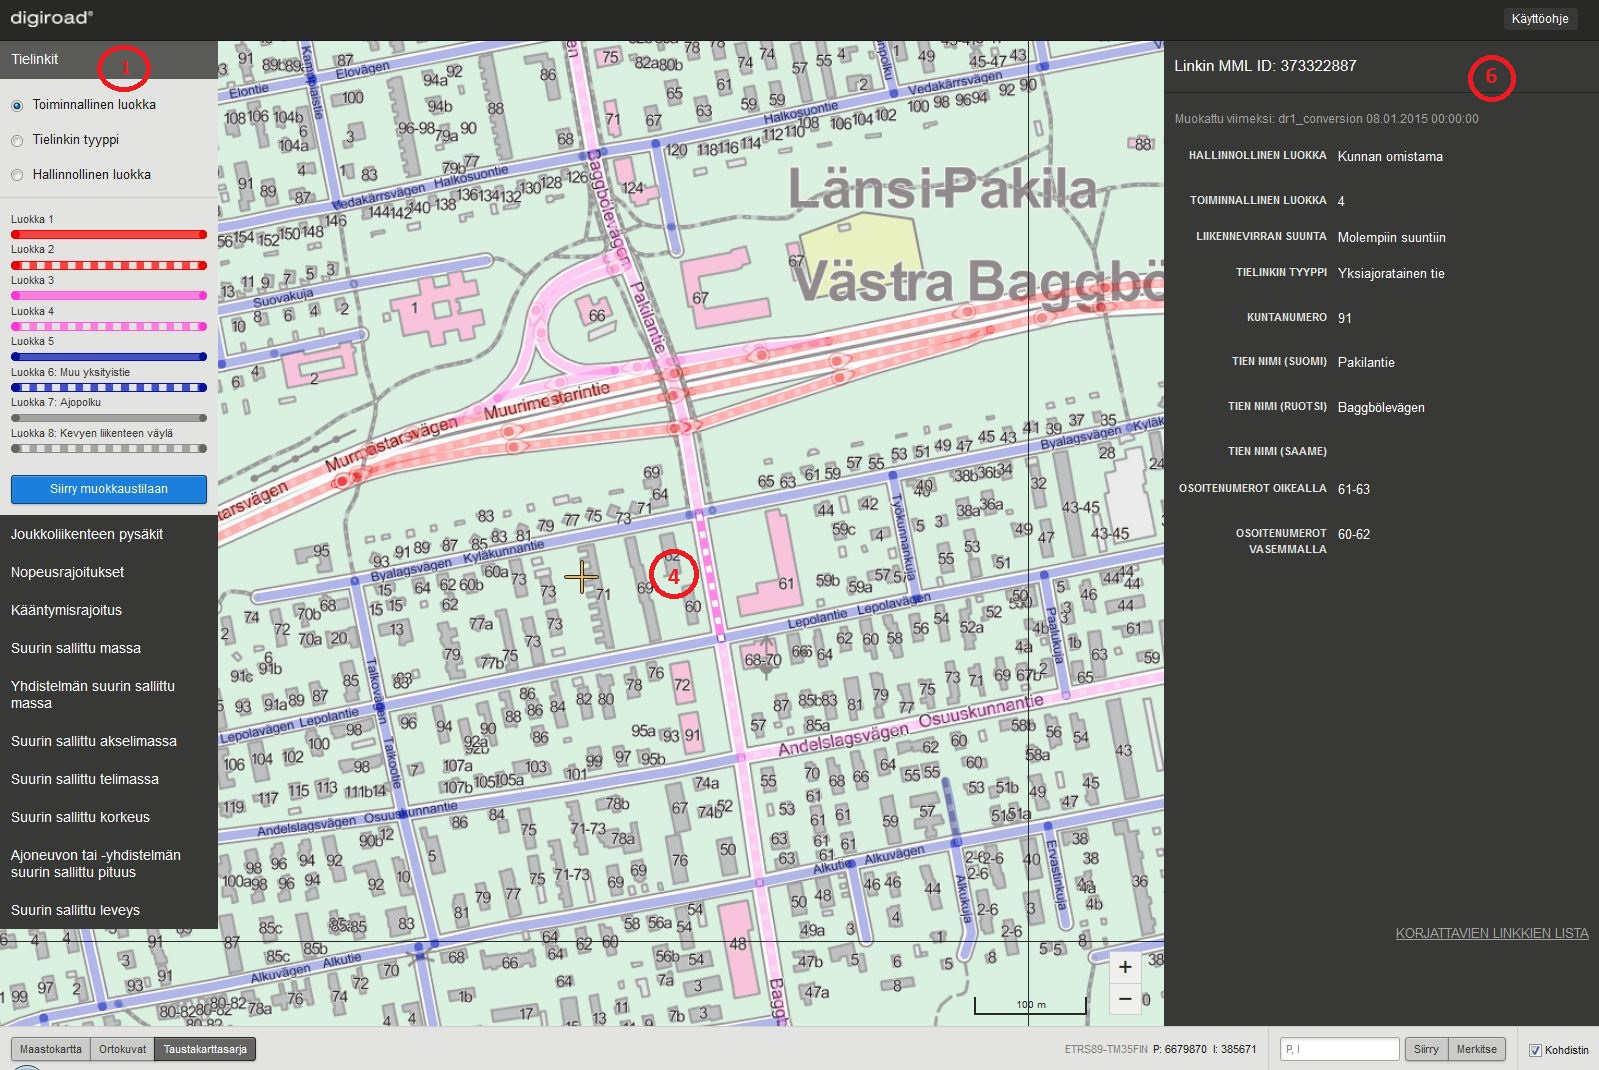
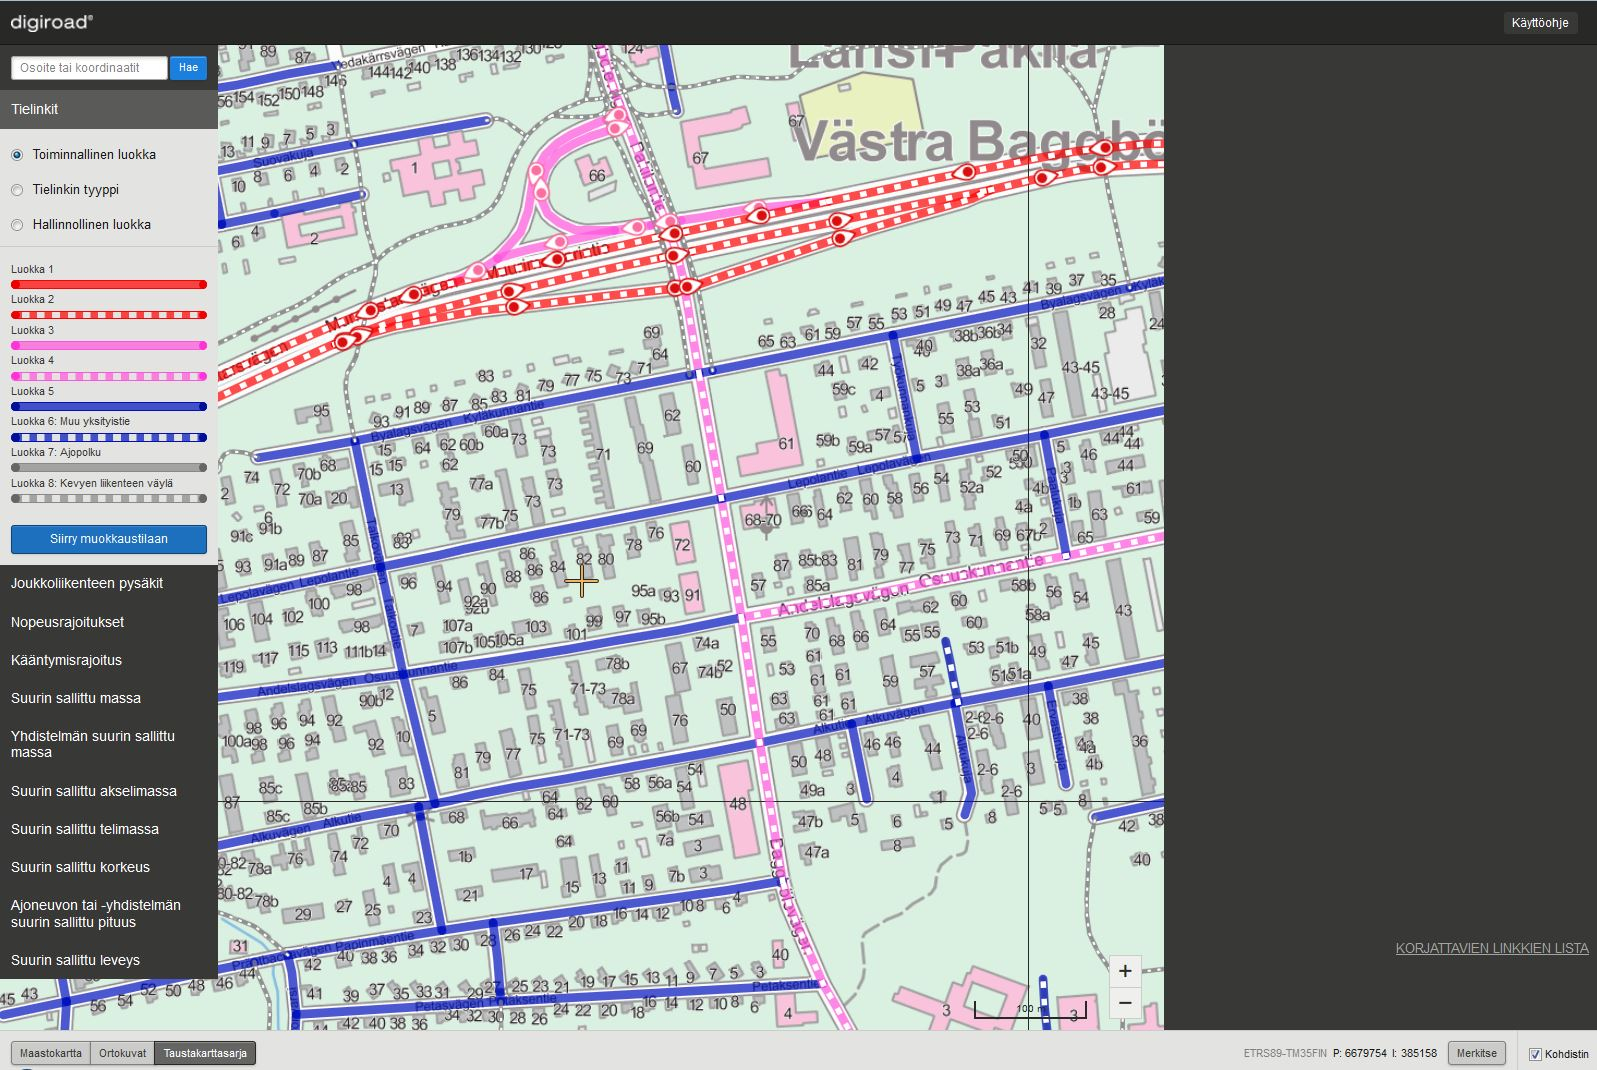
update manual

diff --git a/UI/manual/index.md b/UI/manual/index.md
@@ -118,7 +118,7 @@ _Karttan&auml;kym&auml;n muokkaus._
 3. Tielinkit
 ------------
 
-Tielinkki on tien, kadun, kevyen liikenteen v&auml;yl&auml;n tai lauttayhteyden keskilinjageometrian pienin yksikk&ouml;. Tielinkin ominaisuustiedot ovat aina voimassa koko tielinkin matkalla. Karttan&auml;kym&auml;&auml;n valitaan tielinkit valitsemalla tietolajit-paletista (1) Tielinkit.
+Tielinkki on tien, kadun, kevyen liikenteen v&auml;yl&auml;n tai lauttayhteyden keskilinjageometrian pienin yksikk&ouml;. Tielinkin ominaisuustiedot ovat aina voimassa koko tielinkin matkalla. Karttan&auml;kym&auml;&auml;n valitaan tielinkit valitsemalla tietolajit-paletista Tielinkit.
 
 ![Tielinkit](k38.JPG)
 
@@ -134,9 +134,21 @@ jossa numerosarja 373320541 on tielinkin MML-ID. Toiminto tarkentaa karttak&auml
 
 ##Tielinkin tietojen katselu##
 
-Yksitt&auml;isen tielinkin ominaisuustiedot tulevat n&auml;kyviin, kun tielinkin geometriaa kartalla klikataan (4). T&auml;ll&ouml;in tielinkin geometria korostuu kartalla ja sen ominaisuustiedot avautuvat ominaisuustieton&auml;kym&auml;&auml;n (6). Tielinkin ominaisuustietoja ovat tielinkin ID, Maanmittauslaitoksen ID (MML ID), hallinnollinen luokka, toiminnallinen luokka, liikennevirran suunta, tielinkin tyyppi, kuntanumero, tien nimi (suomi, ruotsi, saame) ja osoitenumerot vasemmalla ja oikealla.
+Yksitt&auml;isen tielinkin voi valita klikkaamalla kartalta sen geometriaa. Tielinkin ominaisuustiedot avautuvat ominaisuustieton&auml;kym&auml;&auml;n (1). Tielinkin ominaisuustietoja ovat Maanmittauslaitoksen ID (MML ID), hallinnollinen luokka, toiminnallinen luokka, liikennevirran suunta, tielinkin tyyppi, kuntanumero, tien nimi (suomi, ruotsi, saame) ja osoitenumerot vasemmalla ja oikealla.
 
-Tielinkeille voi valita visualisoinnin Tietolajit -paletista (1) tielinkkien alta. Visualisoinnin voi valita toiminnallisen luokan, tielinkin tyypin tai hallinnollisen luokan mukaan. Valinnan mukaan visualisoinnin selitteet n&auml;kyv&auml;t Tietolajit-paletissa. Lis&auml;ksi tielinkill&auml; on visualisoitu suuntanuoli, mik&auml;li tielinkin liikennevirran suunta on vain toiseen suuntaan.
+Kerran klikkaamalla tulee valituksi koko tielinkkiketju. Tielinkkiketjussa kaikilla tielinkeill&auml; on sama hallinnollinen luokka, toiminnallinen luokka, tielinkin tyyppi, liikennevirran suunta ja tiennumero (maantiet) tai tien nimi (katuverkko ja yksityistie). Jos k&auml;ytt&auml;j&auml; haluaa valita vain yhden linkin, sen voi tehd&auml; tuplaklikkaamalla linkki&auml;.
+
+Valitun tielinkkiketjun tai yksitt&auml;isen tielinkin geometria korostuu kartalla. Sivun oikeaan laitaan avautuu tielinkin ominaisuustieton&auml;kym&auml;. Jos tielinkkiketju jatkuu kuntarajan yli, tai tiennumerolla on useita tien nimi&auml;, kirjataan n&auml;m&auml; kaikki tiedot ominaisuustieton&auml;kym&auml;&auml;n.
+
+![Tielinkkiketju](k54.jpg)
+
+_Tielinkkiketjun valinta (klikattu kerran)._
+
+![Yksitt&auml;isen tielinkin valinta](k55.jpg)
+
+_Yksitt&auml;isen tielinkin valinta (tuplaklikkaus)._
+
+Tielinkeille voi valita visualisoinnin Tietolajit -paletista tielinkkien alta. Visualisoinnin voi valita toiminnallisen luokan, tielinkin tyypin tai hallinnollisen luokan mukaan. Valinnan mukaan visualisoinnin selitteet n&auml;kyv&auml;t Tietolajit-paletissa. Lis&auml;ksi tielinkill&auml; on visualisoitu suuntanuoli, mik&auml;li tielinkin liikennevirran suunta on vain toiseen suuntaan.
 
 Toiminnallisen luokan selitteet ovat:
 
@@ -149,7 +161,7 @@ Luokka 6: Muu yksityistie
 Luokka 7: Ajopolku
 Luokka 8: Kevyen liikenteen v&auml;yl&auml;
 
-![Tielinkit visualisoitu toiminnallisen luokan mukaan](k7.jpg)
+![Tielinkit visualisoitu toiminnallisen luokan mukaan](k7.JPG)
 
 _Tielinkit visualisoitu toiminnallisen luokan mukaan._
 
@@ -161,15 +173,20 @@ _Tielinkit visualisoitu tielinkin tyypin mukaan._
 
 _Tielinkit visualisoitu hallinnollisen luokan mukaan._
 
+
 ##Tielinkin ominaisuustietojen muokkaus##
 
-Yksitt&auml;isen tielinkin ominaisuustietoja voi muokata siirtym&auml;ll&auml; muokkaustilaan. Muokattava tielinkki valitaan hiirell&auml; klikkaamalla.
+Yksitt&auml;isen tielinkin ominaisuustietoja voi muokata siirtym&auml;ll&auml; muokkaustilaan.
 
-Tielinkin ominaisuustiedoista toiminnallinen luokka, liikennevirran suunta ja tielinkin tyyppi ovat muokattavissa.
+Muokattava tielinkki valitaan klikkaamalla sen geometriaa (2). Kerran klikkaamalla tulee valituksi koko tielinkkiketju, eli ominaisuustiedoiltaan yhtenev&auml;t tielinkit.
+
+Jos k&auml;ytt&auml;j&auml; haluaa valita vain yhden tielinkin, sen voi tehd&auml; tuplaklikkamalla tielinkki&auml;.
+
+Tielinkin ominaisuustiedoista toiminnallinen luokka, liikennevirran suunta ja tielinkin tyyppi ovat muokattavissa (3). Ketjuvalinta korjaa kaikkien ketjuun valittuna olevien tielinkkien tiedot.
 
 ![Tielinkin ominaisuustietojen muokkaus.](k39.JPG)
 
-_Tielinkin ominaisuustietojen muokkaus._
+_Tielinkin ominaisuustietojen muokkaus. Valittuna tielinkkiketju (klikattu kerran)._
 
 ####Korjattavat tielinkit####
 
@@ -390,7 +407,7 @@ Kerran klikkaamalla tulee valituksi koko nopeusrajoitusketju, eli kaikki nopeusr
 
 Huom! Nopeusrajoituksien ketjuvalinta ei toimi yksisuuntaisille nopeusrajoituksille.
 
-Valitun nopeusrajoitusketjun tai yksitt&auml;isen nopeusrajoituksen geometria tummentuu ja muut nopeusrajoitukset n&auml;kyv&auml;t haaleammalla. Sivun oikeaan laitaan avautuu nopeusrajoituksen ominaisuustieton&auml;kym&auml;.
+Valitun nopeusrajoitusketjun tai yksitt&auml;isen nopeusrajoituksen geometria korostuu kartalla. Sivun oikeaan laitaan avautuu nopeusrajoituksen ominaisuustieton&auml;kym&auml;.
 
 Ominaisuustieton&auml;kym&auml;ss&auml; on nopeusrajoituksen arvo (km/h), valittujen linkkien lukum&auml;&auml;r&auml; sek&auml; lis&auml;tty j&auml;rjestelm&auml;&auml;n ja muokattu viimeksi -tiedot.
 
@@ -491,7 +508,7 @@ Tuntemattomalle nopeusrajoitukselle voi antaa arvon alasvetovalikosta ja niit&au
 
 _Tuntematon nopeusrajoitus._
 
-Tuntemattomista nopeusrajoituksista on lista, johon p&auml;&auml;see nopeusrajoitusten ominaisuustieton&auml;kym&auml;st&auml; (1). Nopeusrajoitukset on jaoteltu listalle kunnan sek&auml; kunnan sis&auml;ll&auml; hallinnollisen luokan (kunta, valtio, yksityinen) mukaan. Nopeusrajoituksesta on listassa linkki, josta p&auml;&auml;see suoraan nopeusrajoituksen kohdalle sovelluksessa ja sille voi asettaa arvon. Nopeusrajoituslinkin voi avata uuteen v&auml;lilehteen klikkaamalla linkki&auml; Ctrl-painike pohjassa. Muuten linkki avautuu samaan v&auml;lilehteen. Lista sulkeutuu Sulje lista -painikkeesta.
+Tuntemattomista nopeusrajoituksista on lista, johon p&auml;&auml;see nopeusrajoitusten ominaisuustieton&auml;kym&auml;st&auml; (1). Nopeusrajoitukset on jaoteltu listalle kunnan sek&auml; kunnan sis&auml;ll&auml; hallinnollisen luokan (kunta, valtio, yksityinen) mukaan. Listan pituus on rajoitettu kymmeneen nopeusrajoitukseen, mutta kunkin hallinnollisen luokan vieress&auml; lukee my&ouml;s korjattavien nopeusrajoitusten kokonaism&auml;&auml;r&auml;. Nopeusrajoituksesta on listassa linkki, josta p&auml;&auml;see suoraan nopeusrajoituksen kohdalle sovelluksessa ja sille voi asettaa arvon. Nopeusrajoituslinkin voi avata uuteen v&auml;lilehteen klikkaamalla linkki&auml; Ctrl-painike pohjassa. Muuten linkki avautuu samaan v&auml;lilehteen. Lista sulkeutuu Sulje lista -painikkeesta.
 
 ![Tuntematon nopeusrajoitus.](k49.JPG)
 
